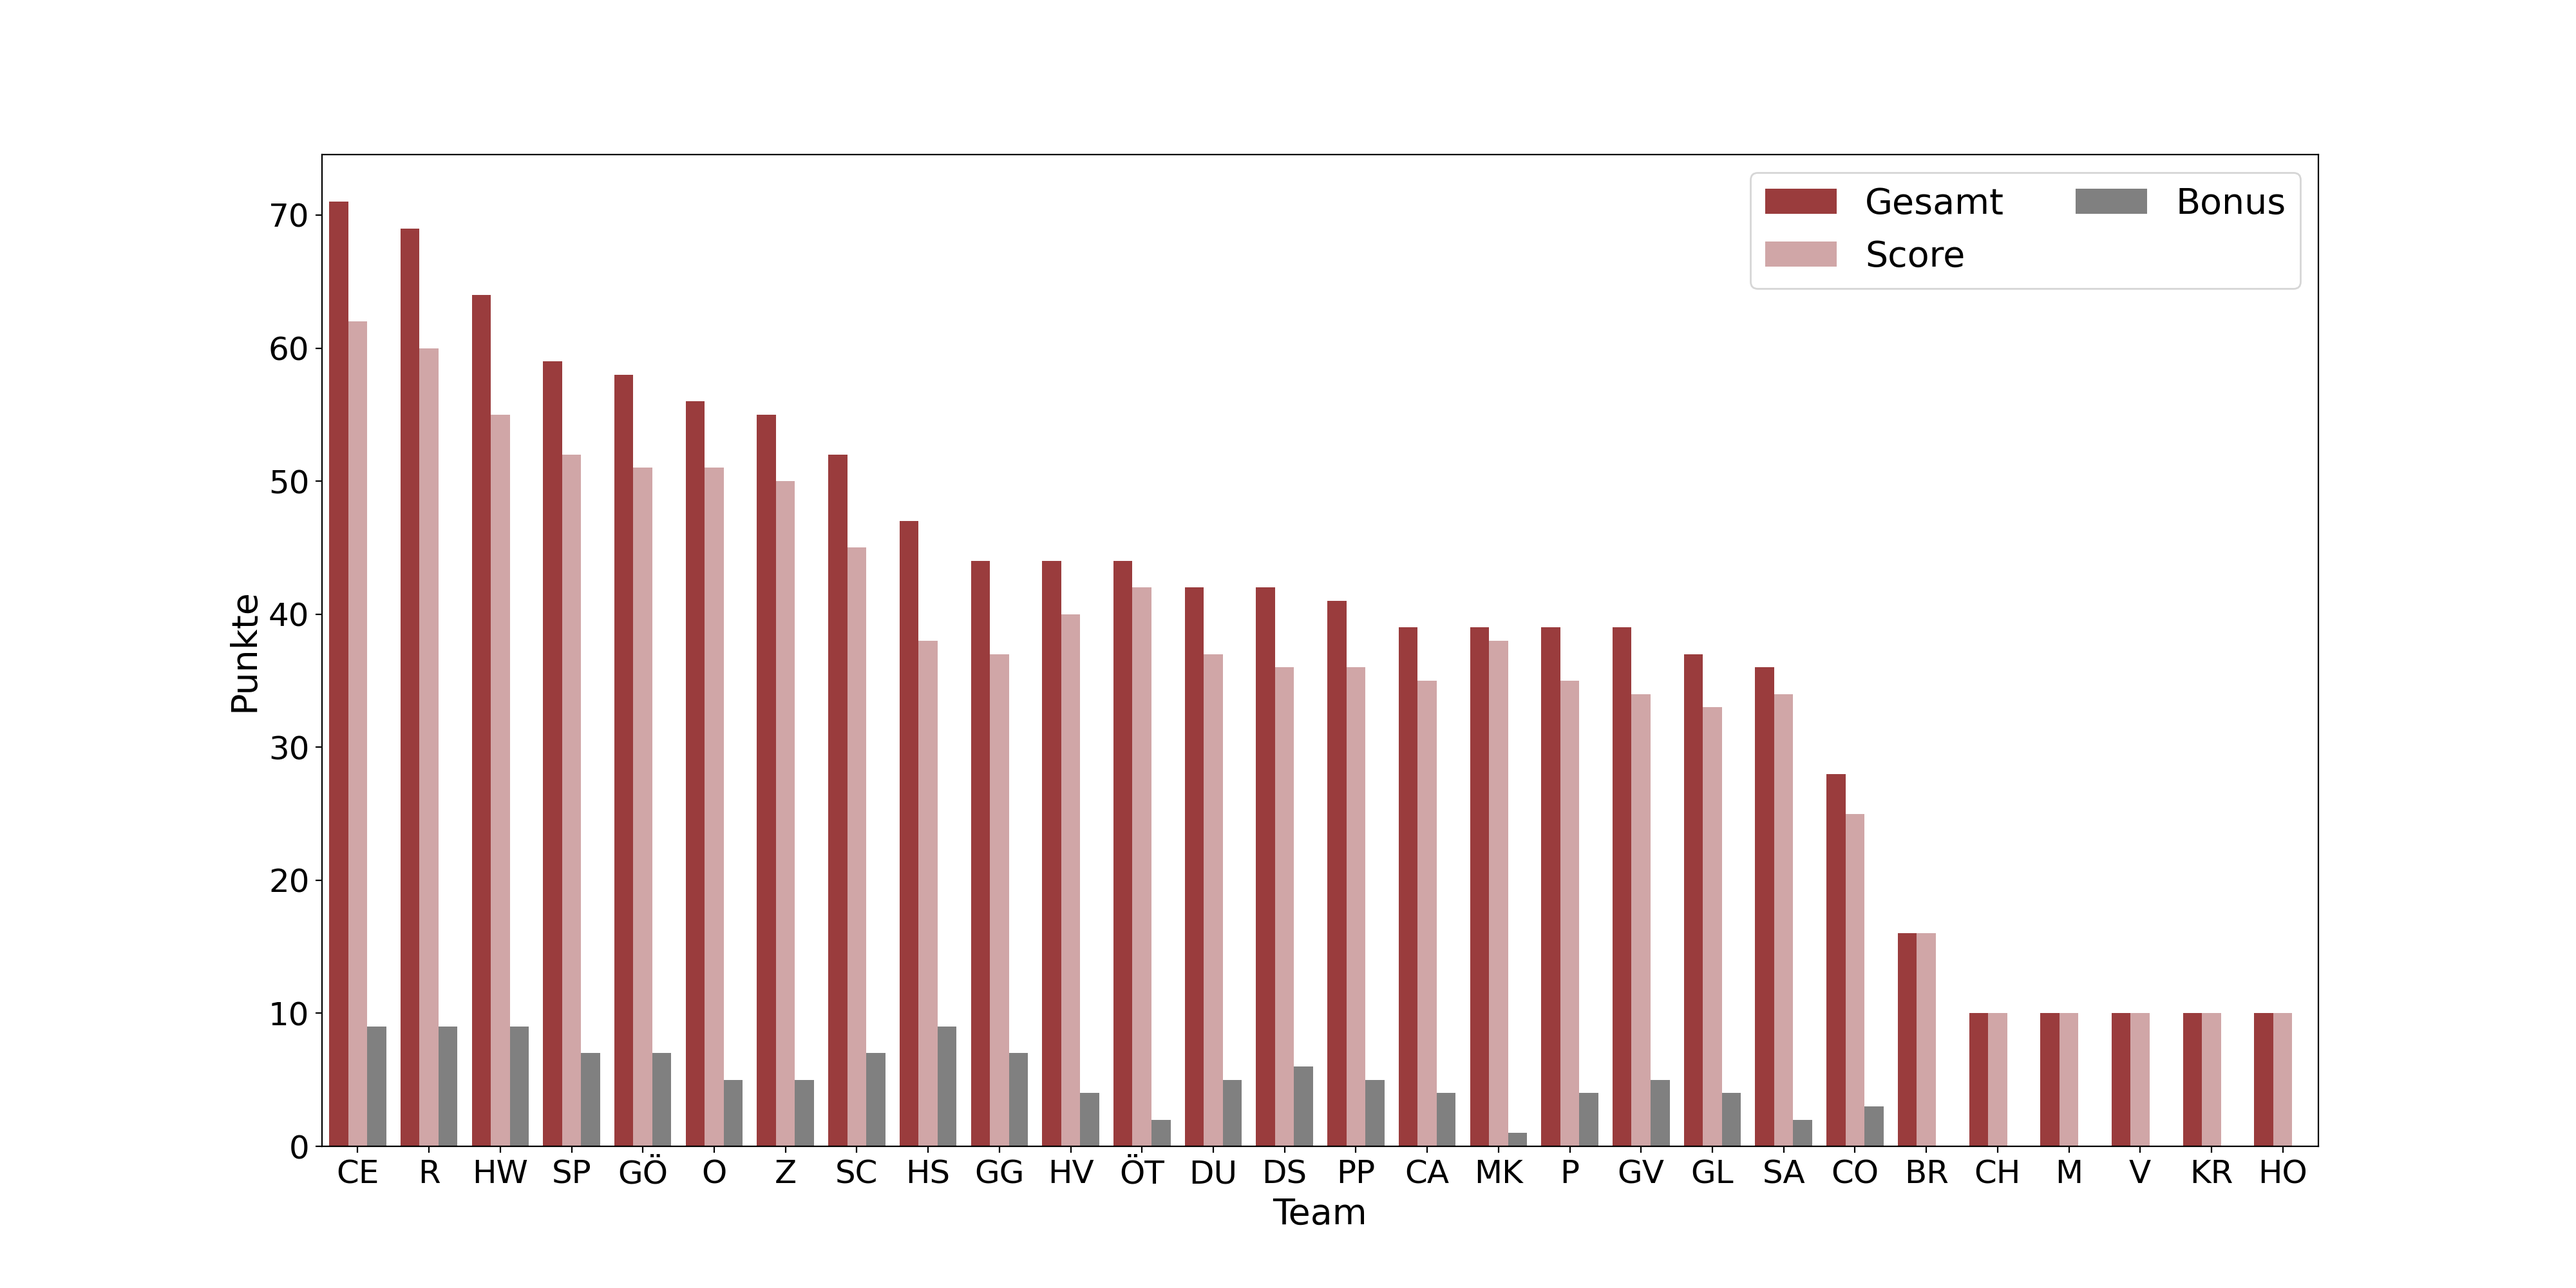
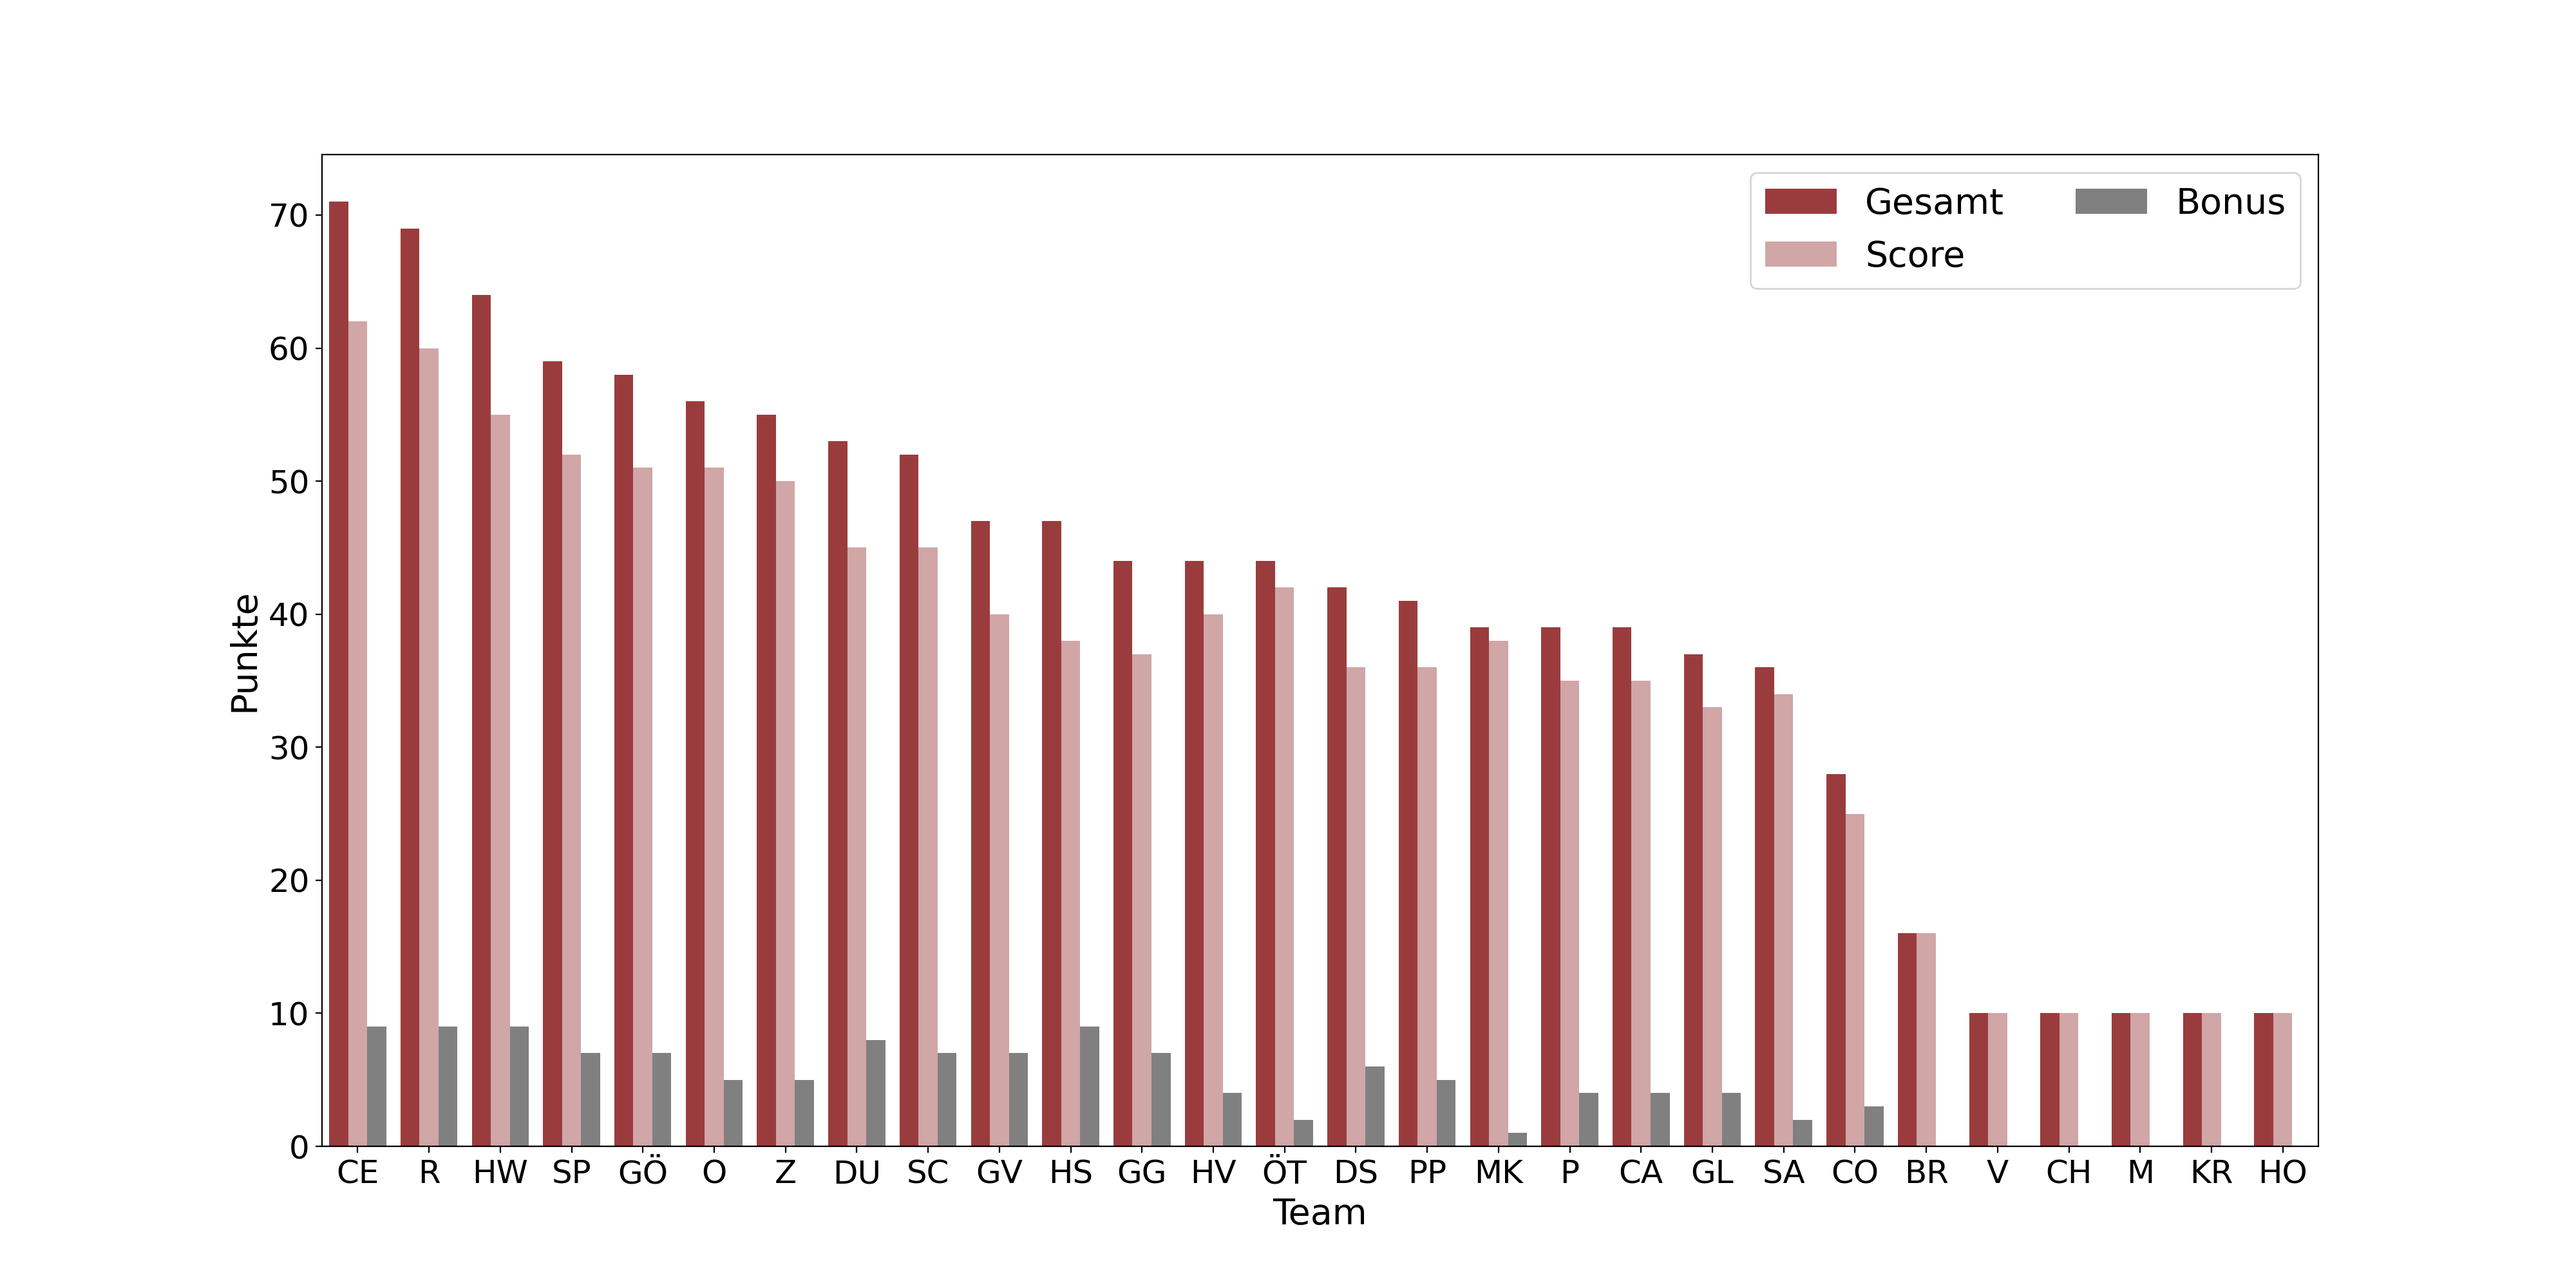
update

diff --git a/css/style_teams.css b/css/style_teams.css
@@ -72,7 +72,7 @@
             background-color: #c23a22
         }
         .M {
-            order: 24
+            order: 25
         }
         .M .team__all-points::after{
             content: "10 "
@@ -92,7 +92,7 @@
             background-color: #dab894
         }
         .DS {
-            order: 13
+            order: 14
         }
         .DS .team__all-points::after{
             content: "42"
@@ -100,22 +100,22 @@
         
 
         .DU .team__score::after {
-            content: "37/120"
+            content: "45/120"
         }
         .DU .team__stations::after {
-            content: "5/12"
+            content: "6/12"
         }
         .DU .team__bonus::after {
-            content: "5/36"
+            content: "8/36"
         }
         .DU .team__logo {
             background-color: #d6eadf
         }
         .DU {
-            order: 12
+            order: 7
         }
         .DU .team__all-points::after{
-            content: "42"
+            content: "53"
         }
 
 
@@ -133,7 +133,7 @@
             background-color: #957DAD
         }
         .OT {
-            order: 11
+            order: 13
         }
         .OT .team__all-points::after{
             content: " 44"
@@ -154,7 +154,7 @@
             background-color: #E0BBE4
         }
         .GG {
-            order: 9
+            order: 11
         }
         .GG .team__all-points::after{
              content: "44"
@@ -174,7 +174,7 @@
             background-color: #d291bc
         }
         .CH {
-            order: 23
+            order: 24
         }
         .CH .team__all-points::after{
             content: "10"
@@ -202,22 +202,22 @@
 
 
         .GV .team__score::after {
-            content: "34/120"
+            content: "40/120"
         }
         .GV .team__stations::after {
-            content: "4/12"
+            content: "5/12"
         }
         .GV .team__bonus::after {
-            content: "5/36"
+            content: "7/36"
         }
         .GV .team__logo {
             background-color: #ffdfdc
         }
         .GV {
-            order: 18
+            order: 9
         }
         .GV .team__all-points::after{
-            content: "39"
+            content: "47"
         }
 
 
@@ -234,7 +234,7 @@
             background-color: #9d8189
         }
         .SC {
-            order: 7
+            order: 8
         }
         .SC .team__all-points::after{
             content: "52"
@@ -254,7 +254,7 @@
             background-color: #cccccc
         }
         .V {
-            order: 25
+            order: 23
         }
         .V .team__all-points::after{
             content: "10"
@@ -355,7 +355,7 @@
             background-color: #efe9ae
         }
         .HS {
-            order: 8
+            order: 10
         }
         .HS .team__all-points::after{
             content: "47"
@@ -396,7 +396,7 @@
             background-color: #7ec4cf
         }
         .PP {
-            order: 14
+            order: 15
         }
         .PP .team__all-points::after{
             content: "41"
@@ -476,7 +476,7 @@
             background-color: #b8e0d2
         }
         .HV {
-            order: 10
+            order: 12
         }
         .HV .team__all-points::after{
             content: "44"
@@ -516,7 +516,7 @@
             background-color: #ffc8dd
         }
         .CA {
-            order: 15
+            order: 18
         }
         .CA .team__all-points::after{
             content: "39"

diff --git a/css/style_station.css b/css/style_station.css
@@ -32,7 +32,7 @@
         }
 
         .I .station__teams::after {
-            content: "14/28"
+            content: "16/28"
         }
 
         .J .station__teams::after {
